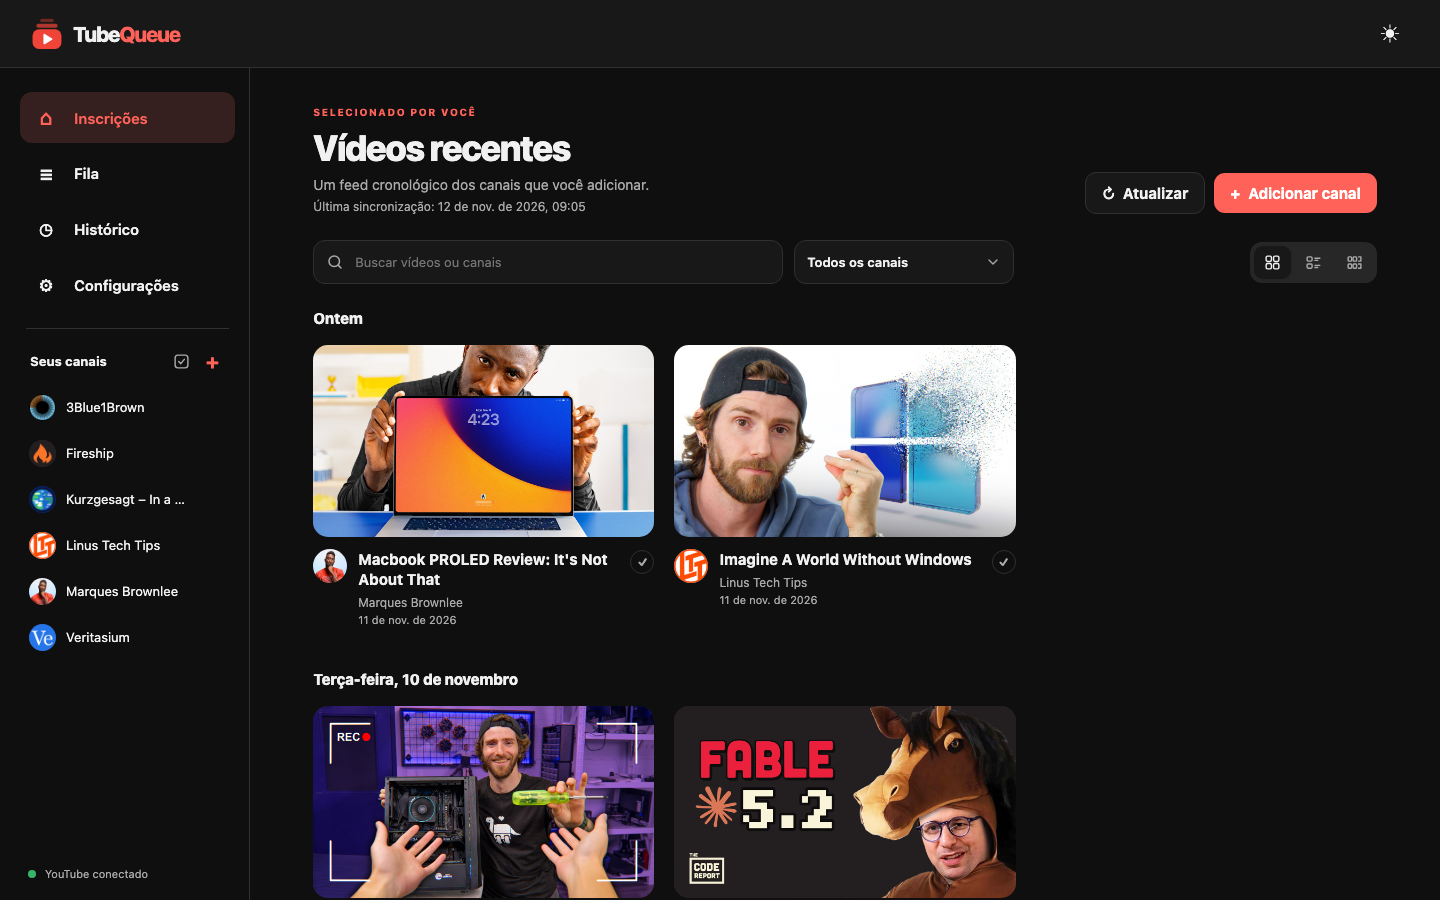
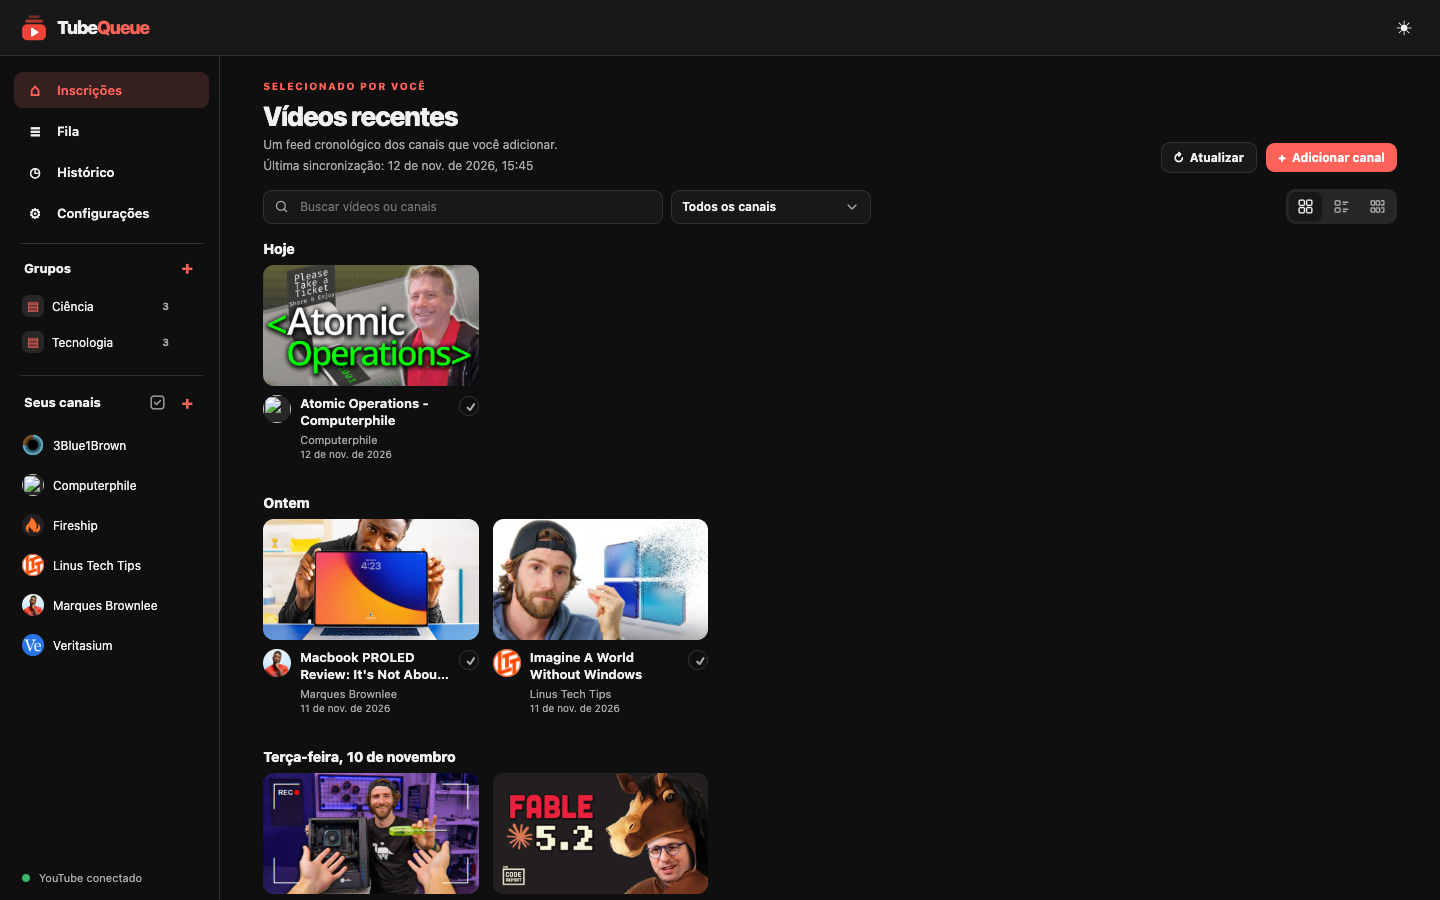
docs: update readme features and screenshots

diff --git a/README.pt-BR.md b/README.pt-BR.md
@@ -30,8 +30,11 @@
 - 📺 **Um feed cronológico** dos canais que você adicionar, agrupado por dia, em grade, lista ou fileiras por canal
 - 🚫 **Sem Shorts**, a menos que você queira
 - 🔄 **Sincronização em segundo plano** no intervalo que você escolher
-- ▶ **Player integrado**, com link para o YouTube para curtir e comentar
+- 🗂 **Grupos de canais** para filtrar o feed por assunto
+- ▶ **Player integrado** com modo teatro e reprodução automática opcional do próximo vídeo, com link para o YouTube para curtir e comentar
+- 📋 **Fila de reprodução**: arraste para reordenar, repita e limpe com um clique, opcionalmente flutuante em todas as páginas
 - ✅ **Marcação de vídeos vistos** e **histórico** opcional com filtro por data
+- 🪶 **Modo econômico** que carrega miniaturas bem mais leves
 - 🔎 **Busca instantânea** em vídeos e canais
 - 📥 **Importação e exportação** da lista de canais em CSV
 - 🌗 **Temas claro e escuro**, em português e inglês

diff --git a/README.md b/README.md
@@ -30,8 +30,11 @@
 - 📺 **One chronological feed** of the channels you add, grouped by day, in grid, list or channel rows
 - 🚫 **No Shorts**, unless you want them
 - 🔄 **Background sync** on a schedule you pick
-- ▶ **Built-in player**, with a link to YouTube for likes and comments
+- 🗂 **Channel groups** to filter the feed by topic
+- ▶ **Built-in player** with theater mode and optional autoplay of the next video, with a link to YouTube for likes and comments
+- 📋 **Play queue**: drag to reorder, repeat, clear with one click, optionally floating on every page
 - ✅ **Watch tracking** and an optional **history** you can filter by date
+- 🪶 **Data saver** mode that loads much lighter thumbnails
 - 🔎 **Instant search** across videos and channels
 - 📥 **CSV import/export** of your channel list
 - 🌗 **Light and dark themes**, in English and Brazilian Portuguese
